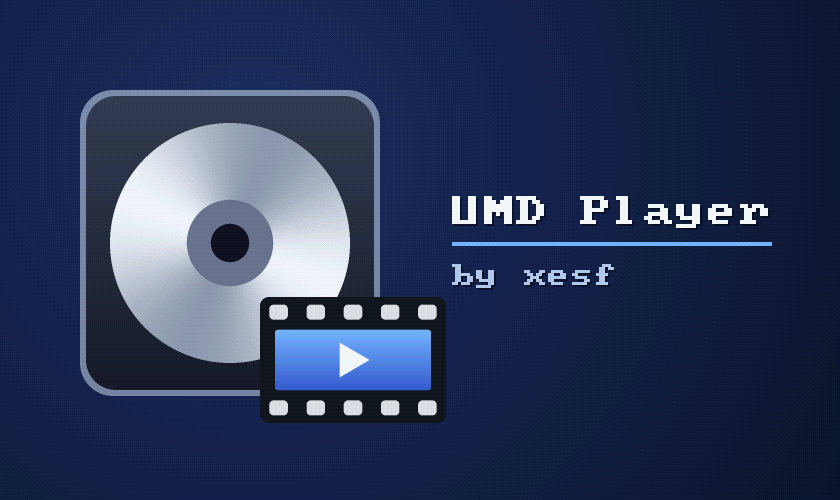
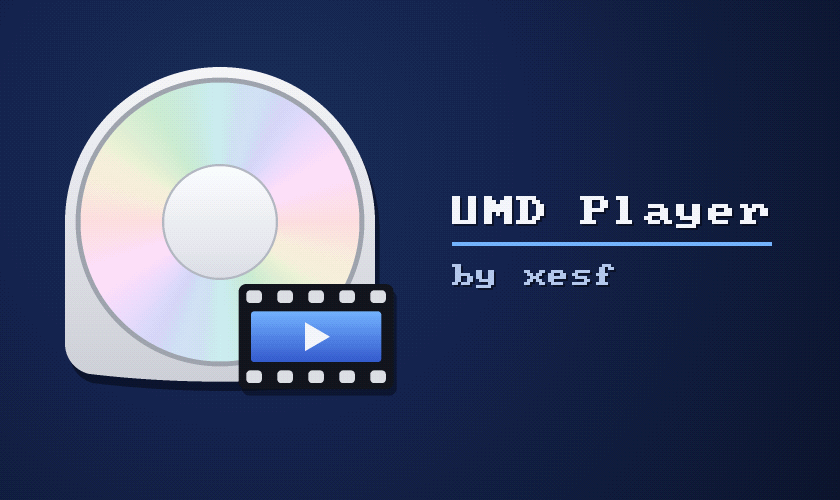
Draw the emblem's disc in a PSP-style UMD caddy
The caddy follows the physical UMD shape: a half circle around the disc
on top, straight sides, rounded bottom corners, and a slightly convex
bottom edge, in light grey with a rim around the window. The disc has a
faint rainbow sheen and a plain centre label; no Sony label, wordmark,
or logo is copied. The LiveArea keeps "UMD Player" and "by xesf".

Changed region(s): [[0.0619, 0.12, 0.5571, 0.87]]

diff --git a/tools/make_assets.py b/tools/make_assets.py
@@ -3,8 +3,8 @@
 
     python3 -I tools/make_assets.py [out_dir]     (default: assets/vita)
 
-Standard library only. The emblem is an original drawing: a disc in a UMD-style shell with a
-film frame in front. Text uses the app's 8x8 font (src/core/font8x8.c). The Vita wants 8-bit
+Standard library only. The emblem is an original drawing: a disc in a PSP-style caddy
+(the physical shape only, without Sony's label, wordmark, or logos) with a film frame in front. Text uses the app's 8x8 font (src/core/font8x8.c). The Vita wants 8-bit
 indexed PNGs, so images are reduced to 256 colours (median cut) before writing.
 """
 import math
@@ -102,7 +102,7 @@ def rounded_rect(x0, y0, x1, y1, r):
     return inside
 
 
-# ---- the emblem: a UMD-style shell with a disc, and a film frame in front ----
+# ---- the emblem: a disc in a PSP-style caddy, and a film frame in front ----
 
 NAVY = (0.04, 0.07, 0.16)
 NAVY_LIGHT = (0.10, 0.18, 0.38)
@@ -121,36 +121,74 @@ def background(c):
     c.fill(fn)
 
 
+def hsv(h, s, v):
+    i = int(h * 6) % 6
+    f = h * 6 - int(h * 6)
+    p, q, t = v * (1 - s), v * (1 - f * s), v * (1 - (1 - f) * s)
+    return [(v, t, p), (q, v, p), (p, v, t), (p, q, v), (t, p, v), (v, p, q)][i]
+
+
+def caddy(cx, cy, rs):
+    """The caddy outline around a disc centred at (cx, cy): a half circle of radius rs on top,
+    straight sides, rounded bottom corners, and a slightly convex bottom edge."""
+    rc = rs * 0.20                       # bottom corner radius
+    base = cy + rs * 0.96                # bottom edge at the sides
+    bulge = rs * 0.07                    # how far the middle of the bottom edge drops
+
+    def bottom(x):
+        d = (x - cx) / rs
+        return base + bulge * (1 - d * d)
+
+    def inside(x, y):
+        dx = x - cx
+        if y <= cy:
+            return dx * dx + (y - cy) ** 2 <= rs * rs
+        if abs(dx) > rs or y > bottom(x):
+            return False
+        # round the bottom corners
+        kx = cx + math.copysign(rs - rc, dx)
+        ky = bottom(kx) - rc
+        if abs(dx) > rs - rc and y > ky:
+            return (x - kx) ** 2 + (y - ky) ** 2 <= rc * rc
+        return True
+    return inside, bottom(cx)
+
+
 def emblem(c, cx, cy, size):
-    """size is the shell width. The shell is a rounded square with a slightly narrower,
-    rounded bottom edge, like a UMD caddy; the disc shows through a round window."""
-    s = size / 2.0
-    shell = rounded_rect(cx - s, cy - s, cx + s, cy + s * 1.04, s * 0.22)
-    c.shape(shell, lambda x, y: mix((0.20, 0.24, 0.32), (0.08, 0.10, 0.16), (y - (cy - s)) / (2 * s)),
-            bbox=(cx - s - 2, cy - s - 2, cx + s + 2, cy + s * 1.04 + 2))
-    # a thin light rim on the shell
-    rim = lambda x, y: shell(x, y) and not rounded_rect(cx - s + size * 0.02, cy - s + size * 0.02, cx + s - size * 0.02,
-                                                        cy + s * 1.04 - size * 0.02, s * 0.20)(x, y)
-    c.shape(rim, (0.55, 0.62, 0.75), 0.8, bbox=(cx - s - 2, cy - s - 2, cx + s + 2, cy + s * 1.04 + 2))
+    """size is the caddy width. The disc centre is at (cx, cy)."""
+    rs = size / 2.0
+    r = rs * 0.90                        # disc radius
+    outline, lowest = caddy(cx, cy, rs)
+    box = (cx - rs - 2, cy - rs - 2, cx + rs + 2, lowest + 2)
 
-    # the disc: silver with a soft sheen, darker inner ring, and the spindle hole
-    r = s * 0.80
-    dcx, dcy = cx, cy + s * 0.02
+    # soft shadow, then the light grey shell with a top-to-bottom shade
+    sh, _ = caddy(cx + size * 0.015, cy + size * 0.03, rs)
+    c.shape(sh, (0.0, 0.0, 0.03), 0.45, bbox=(box[0], box[1], box[2] + size * 0.02, box[3] + size * 0.04))
+    c.shape(outline, lambda x, y: mix((0.96, 0.96, 0.97), (0.80, 0.81, 0.84), (y - (cy - rs)) / (lowest - (cy - rs))),
+            bbox=box)
+    # the window rim around the disc
+    c.shape(lambda x, y: (x - cx) ** 2 + (y - cy) ** 2 <= (r * 1.035) ** 2, (0.62, 0.64, 0.68), bbox=box)
 
-    def silver(x, y):
-        ang = math.atan2(y - dcy, x - dcx)
-        sheen = 0.5 + 0.5 * math.cos(2 * ang - 0.8)
-        return mix((0.55, 0.60, 0.68), (0.93, 0.95, 0.98), sheen)
-    c.shape(lambda x, y: (x - dcx) ** 2 + (y - dcy) ** 2 <= r * r, silver, bbox=(dcx - r, dcy - r, dcx + r, dcy + r))
-    c.shape(lambda x, y: (x - dcx) ** 2 + (y - dcy) ** 2 <= (r * 0.36) ** 2, (0.40, 0.45, 0.55),
-            bbox=(dcx - r, dcy - r, dcx + r, dcy + r))
-    c.shape(lambda x, y: (x - dcx) ** 2 + (y - dcy) ** 2 <= (r * 0.16) ** 2, (0.05, 0.07, 0.12),
-            bbox=(dcx - r, dcy - r, dcx + r, dcy + r))
+    # the disc: silver with a faint rainbow sheen that turns around the centre
+    def disc(x, y):
+        ang = math.atan2(y - cy, x - cx)
+        rainbow = hsv(((ang / (2 * math.pi)) * 2) % 1.0, 0.22, 1.0)
+        light = 0.5 + 0.5 * math.cos(2 * ang + 0.6)
+        base = mix((0.80, 0.82, 0.86), (0.99, 0.99, 1.00), light)
+        return mix(base, rainbow, 0.55)
+    c.shape(lambda x, y: (x - cx) ** 2 + (y - cy) ** 2 <= r * r, disc, bbox=box)
+    # the centre label: plain, with a thin edge
+    lr = r * 0.40
+    c.shape(lambda x, y: (x - cx) ** 2 + (y - cy) ** 2 <= (lr * 1.04) ** 2, (0.70, 0.72, 0.76), bbox=box)
+    c.shape(lambda x, y: (x - cx) ** 2 + (y - cy) ** 2 <= lr * lr,
+            lambda x, y: mix((0.99, 0.99, 1.0), (0.86, 0.87, 0.90), (y - (cy - lr)) / (2 * lr)), bbox=box)
 
-    # the film frame, overlapping the lower right
-    fw, fh = size * 0.62, size * 0.42
-    fx, fy = cx + s * 0.20, cy + s * 0.38
-    frame = rounded_rect(fx, fy, fx + fw, fy + fh, size * 0.03)
+    # the film frame, over the lower right of the disc
+    fw, fh = size * 0.50, size * 0.34
+    fx, fy = cx + rs * 0.12, cy + rs * 0.40
+    frame = rounded_rect(fx, fy, fx + fw, fy + fh, size * 0.025)
+    c.shape(rounded_rect(fx + size * 0.01, fy + size * 0.02, fx + fw + size * 0.01, fy + fh + size * 0.02, size * 0.025),
+            (0.0, 0.0, 0.03), 0.4, bbox=(fx - 2, fy - 2, fx + fw + size * 0.02, fy + fh + size * 0.03))
     c.shape(frame, (0.07, 0.08, 0.11), bbox=(fx - 2, fy - 2, fx + fw + 2, fy + fh + 2))
     holes = 5
     hw, hh = fw / (holes * 2.0), fh * 0.12
@@ -158,7 +196,6 @@ def emblem(c, cx, cy, size):
         hx = fx + fw * (i + 0.5) / holes - hw / 2
         for hy in (fy + fh * 0.06, fy + fh - fh * 0.06 - hh):
             c.shape(rounded_rect(hx, hy, hx + hw, hy + hh, hh * 0.3), WHITE, 0.9, bbox=(hx - 1, hy - 1, hx + hw + 1, hy + hh + 1))
-    # the picture area with a play mark
     px0, py0, px1, py1 = fx + fw * 0.08, fy + fh * 0.26, fx + fw * 0.92, fy + fh * 0.74
     c.shape(rounded_rect(px0, py0, px1, py1, size * 0.01),
             lambda x, y: mix(ACCENT, (0.20, 0.35, 0.80), (y - py0) / (py1 - py0)), bbox=(px0 - 1, py0 - 1, px1 + 1, py1 + 1))
@@ -240,14 +277,14 @@ def save(c, path):
 def icon0(path):
     c = Canvas(128, 128)
     background(c)
-    emblem(c, 60, 58, 78)
+    emblem(c, 62, 58, 88)
     save(c, path)
 
 
 def bg(path):
     c = Canvas(840, 500, ss=3)
     background(c)
-    emblem(c, 230, 240, 300)
+    emblem(c, 220, 222, 310)
     x = 452
     c.text('UMD Player', x, 196, 4, WHITE)
     c.rect(x, 242, text_width('UMD Player', 4), 4, ACCENT)
@@ -258,9 +295,9 @@ def bg(path):
 def startup(path):
     c = Canvas(280, 158, ss=3)
     background(c)
-    emblem(c, 62, 76, 86)
-    c.text('UMD', 128, 52, 3, WHITE)
-    c.text('Player', 128, 84, 3, WHITE)
+    emblem(c, 64, 70, 96)
+    c.text('UMD', 132, 52, 3, WHITE)
+    c.text('Player', 132, 84, 3, WHITE)
     save(c, path)
 
 

diff --git a/docs/licensing.md b/docs/licensing.md
@@ -24,4 +24,4 @@ Decision: the project is MIT. The ATRAC3plus decoder in `src/core/atrac3p/` is L
 | `src/platform/vita/vita_shaders.c` | libvita2d `libvita2d/shader/compiled/texture_v_gxp.o` and `texture_f_gxp.o`, extracted as raw `.gxp` programs | MIT, Copyright (c) 2015 Sergi Granell |
 | `src/core/font8x8.c` | font8x8_basic by Daniel Hepper, from IBM VGA fonts via Marcel Sondaar (github.com/dhepper/font8x8) | Public domain |
 
-The bubble icon and LiveArea images in `assets/vita/` are original drawings made by `tools/make_assets.py` (a disc in a UMD-style shell with a film frame). They do not reuse Sony's UMD logo artwork.
+The bubble icon and LiveArea images in `assets/vita/` are original drawings made by `tools/make_assets.py`: a disc in a caddy shaped like a PSP UMD, with a film frame. They follow the physical shape only and do not reuse Sony's UMD label, wordmark, or logo artwork.
